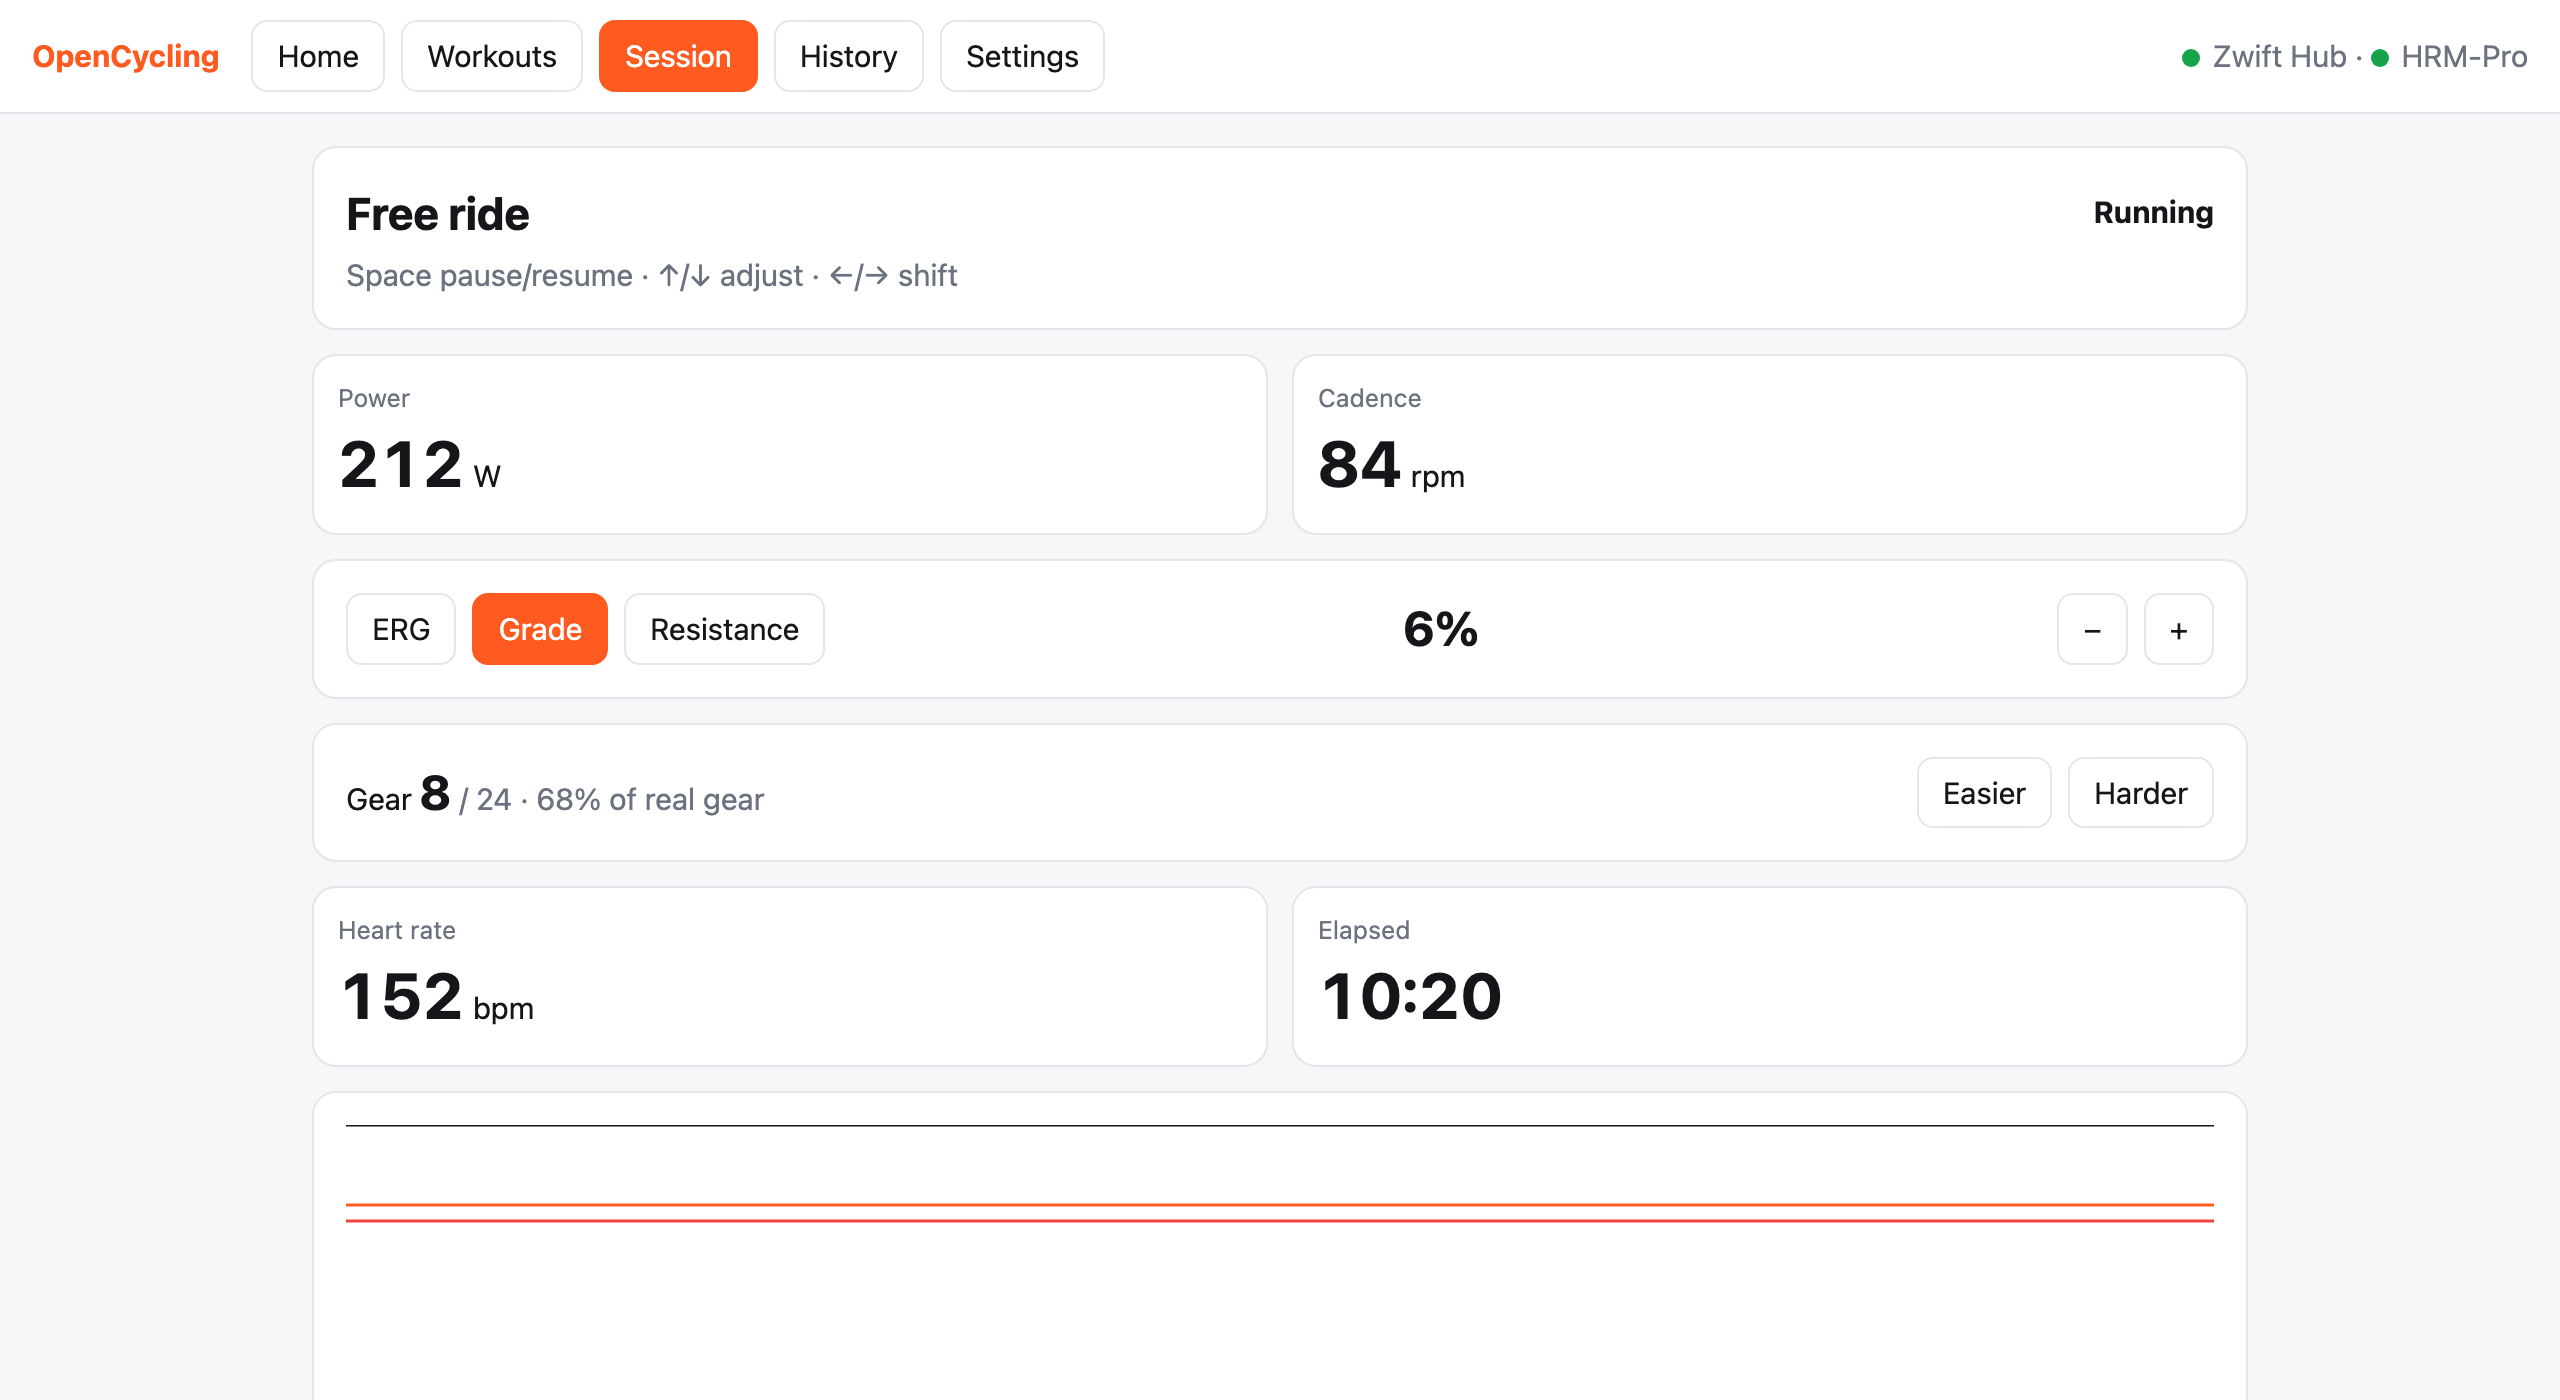
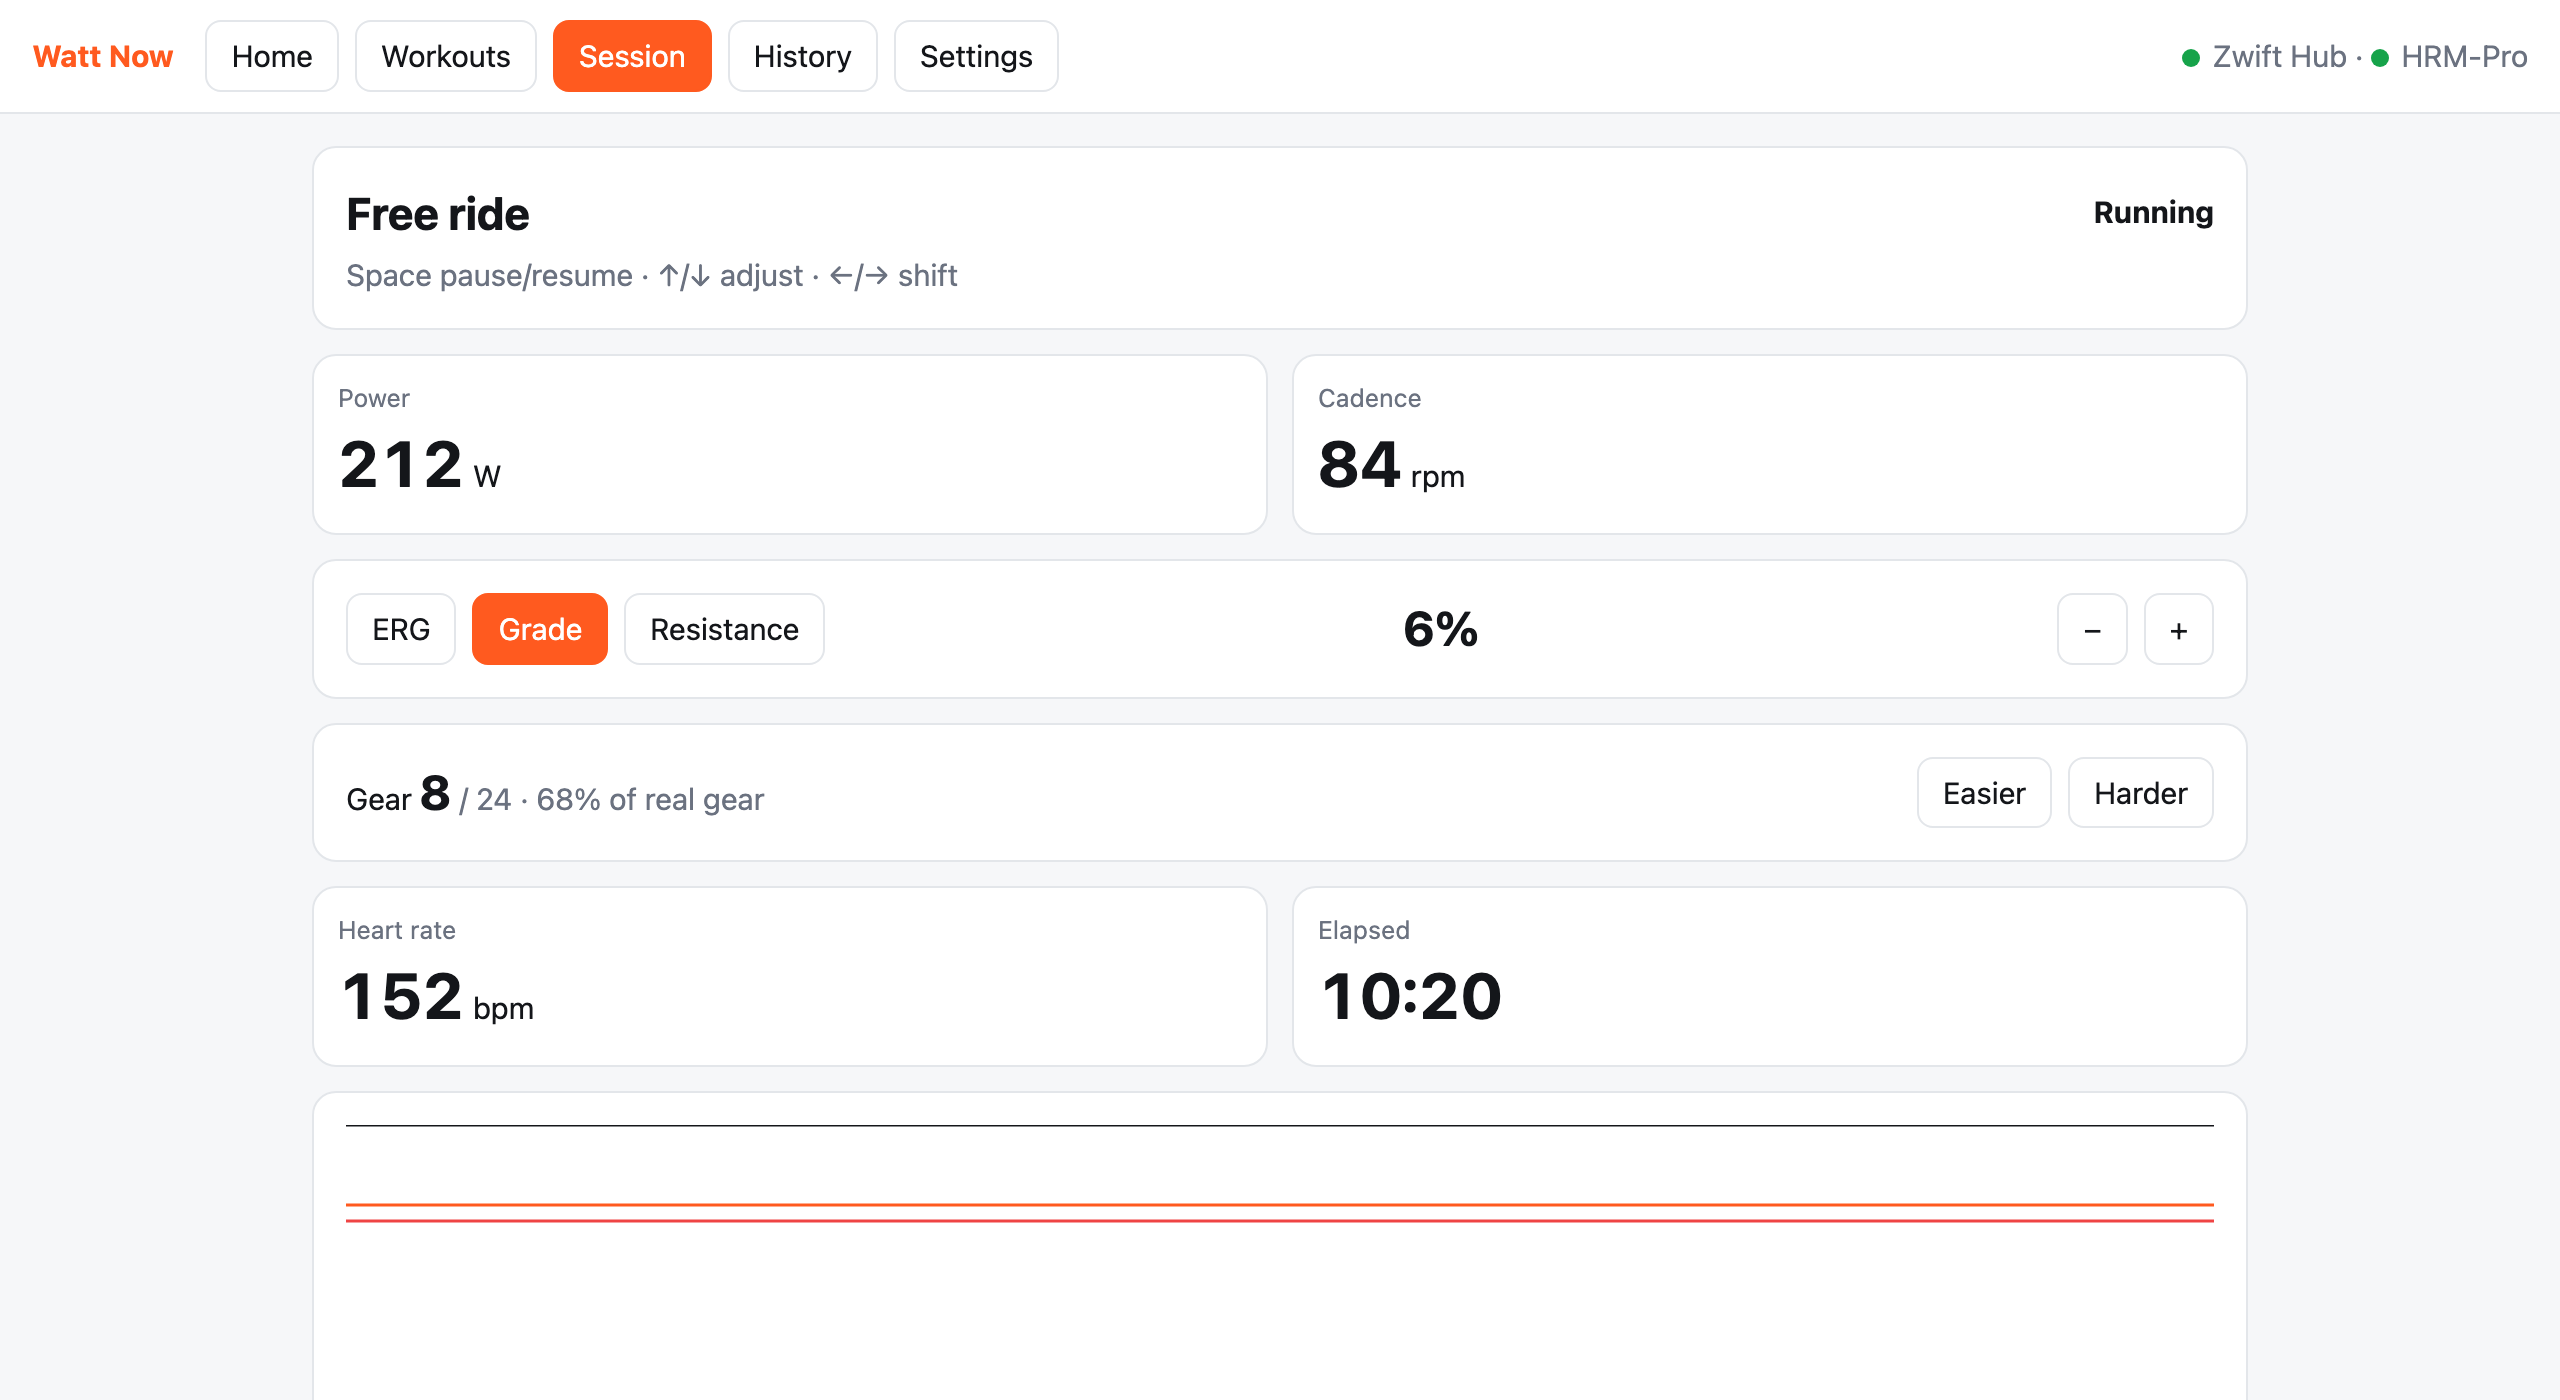
chore: rename to Watt Now

Changed region(s): [[0.0, 0.0, 0.4375, 0.0614]]

diff --git a/index.html b/index.html
@@ -3,7 +3,7 @@
 <head>
 <meta charset="utf-8">
 <meta name="viewport" content="width=device-width, initial-scale=1">
-<title>OpenCycling Web</title>
+<title>Watt Now</title>
 <style>
 :root{--bg:#f6f7f9;--card:#fff;--fg:#14161a;--mute:#6b7280;--line:#e3e6ea;--acc:#ff5a1f;--ok:#16a34a;--warn:#d97706;
 --z1:#9ca3af;--z2:#3b82f6;--z3:#22c55e;--z4:#eab308;--z5:#f97316;--z6:#ef4444}
@@ -39,7 +39,7 @@ table{width:100%;border-collapse:collapse}td{padding:4px 6px;border-bottom:1px s
 </style>
 </head>
 <body>
-<header><b>OpenCycling</b><nav class="row" id="nav"></nav><span style="flex:1"></span><span id="dev" class="mute"></span></header>
+<header><b>Watt Now</b><nav class="row" id="nav"></nav><span style="flex:1"></span><span id="dev" class="mute"></span></header>
 <main id="app"></main>
 <script>
 // ponytail: single-file port of the core loop (devices, .zwo, ERG session, history, TCX).
@@ -105,7 +105,7 @@ const blockLabel = (b) => { if (b.label) return b.label; const a = zoneOf(b.p0),
 const wDur = (w) => w.blocks.reduce((a, b) => a + b.dur, 0);
 const wTss = (w) => { const p = []; for (const b of w.blocks) for (let t = 0; t < b.dur; t++) p.push((b.p0 + (b.p1 - b.p0) * t / b.dur) * cfg.ftp); return derive(p, cfg.ftp).tss };
 
-const SAMPLE = `<workout_file><name>Sweet Spot 3x8</name><author>OpenCycling Web</author><description>Bundled sample: three 8-minute sweet spot efforts.</description><sportType>bike</sportType><workout><Warmup Duration="600" PowerLow="0.45" PowerHigh="0.75"/><IntervalsT Repeat="3" OnDuration="480" OffDuration="240" OnPower="0.9" OffPower="0.55"/><Cooldown Duration="300" PowerLow="0.65" PowerHigh="0.4"/></workout></workout_file>`;
+const SAMPLE = `<workout_file><name>Sweet Spot 3x8</name><author>Watt Now</author><description>Bundled sample: three 8-minute sweet spot efforts.</description><sportType>bike</sportType><workout><Warmup Duration="600" PowerLow="0.45" PowerHigh="0.75"/><IntervalsT Repeat="3" OnDuration="480" OffDuration="240" OnPower="0.9" OffPower="0.55"/><Cooldown Duration="300" PowerLow="0.65" PowerHigh="0.4"/></workout></workout_file>`;
 let workouts = (load('oc.workouts', null) ?? [parseZwo(SAMPLE, 'sample.zwo')]).map((w) => { try { return w.xml ? parseZwo(w.xml, w.file) : w } catch { return w } });
 
 // ---------- charts ----------

diff --git a/README.md b/README.md
@@ -1,4 +1,4 @@
-# OpenCycling Web
+# Watt Now
 
 A browser port of [OpenCycling](https://github.com/TheElysium/opencycling), in one HTML file. It also borrows a few ideas from [Auuki](https://github.com/dvmarinoff/Auuki).
 
